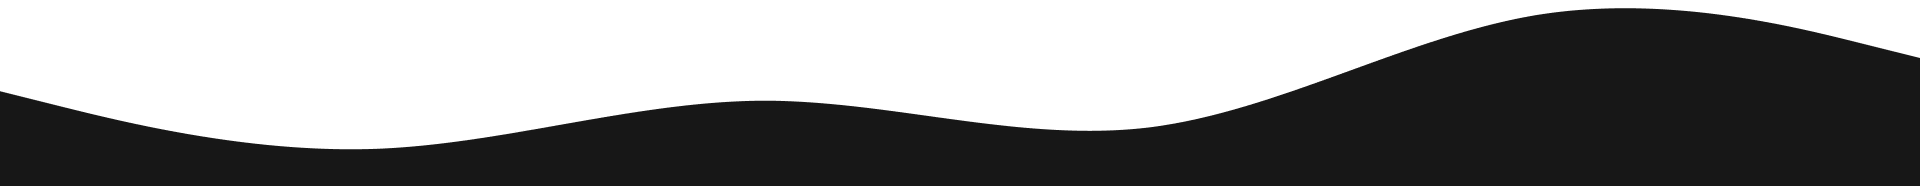
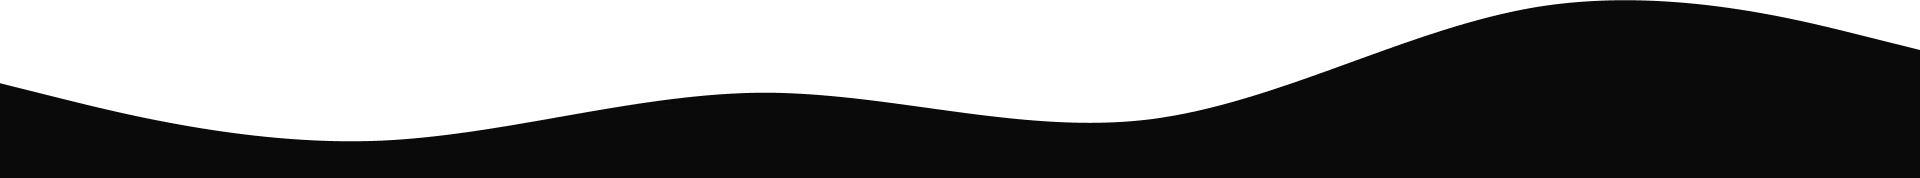
advanced about - little optimization - change coolors.css

diff --git a/src/sections/about/about.jsx b/src/sections/about/about.jsx
@@ -1,11 +1,68 @@
 import Nav from '../../components/navbar/nav'
 import Points from '../../components/points/points'
 import './about.scss'
+import Card from './components/card/card'
 
 const About = props => {
     return (
-      <section className="sections bg-color-3" id='About'>
-        {/* <Points href={props.index} step={2} lightMode={true}/> */}
+      <section className="sections" id='About'>
+        <h1>About me</h1>
+        <div className='cardList'>
+          <Card number={3} plus={true} text="Years Experience"/>
+          <Card number={5} plus={true} text="Happy Clients"/>
+          <Card number={10} plus={true} text="Projects"/>
+          <Card number={72} text="Number of times I've forgotten a semicolon"/>
+        </div>
+        <div className="infoContainer">
+          {/* <ul>
+            <li><span>Full Name:</span> Jorge Peñaranda</li>
+            <li><span>Age:</span> 17</li>
+            <li><span>Birthday:</span> May 31, 2005</li>
+            <li><span>Nationality:</span> Argentine</li>
+            <li><span>Languages:</span> Spanish, English</li>
+            <li><span>Education:</span> Currently in high school tech program for computer science.</li>
+            <li><span>Email:</span> contact@jorgepeniaranda.com</li>
+          </ul> */}
+          <tbody>
+            <tr>
+              <td>Full Name</td>
+              <td>:</td>
+              <td>Jorge Peñaranda</td>
+            </tr>
+            <tr>
+              <td>Age</td>
+              <td>:</td>
+              <td>17</td>
+            </tr>
+            <tr>
+              <td>Birthday</td>
+              <td>:</td>
+              <td>May 31, 2005</td>
+            </tr>
+            <tr>
+              <td>Nationality</td>
+              <td>:</td>
+              <td>Argentine</td>
+            </tr>
+            <tr>
+              <td>Languages</td>
+              <td>:</td>
+              <td>Spanish, English</td>
+            </tr>
+            <tr>
+              <td>Education</td>
+              <td>:</td>
+              <td>Currently in high school tech program for computer science.</td>
+            </tr>
+            <tr>
+              <td>Email</td>
+              <td>:</td>
+              <td>contacto@jorgepeniaranda.com</td>
+            </tr>
+          </tbody>
+          <a href="https://linktr.ee/jorgepeniaranda" target='_blank' rel="noreferrer">More about me</a>
+        </div>
+        <Points href={props.index} step={2} lightMode={true}/>
       </section>
     );
   }

diff --git a/src/sections/about/about.scss b/src/sections/about/about.scss
@@ -1,3 +1,69 @@
 section#About{
     background-color: var(--black);
+    display: grid;
+    grid-template-columns: 45% 45% 10%;
+    grid-template-rows: 20% 80%;
+    place-items: center;
+    h1{
+        width: 100%;
+        height: 100%;
+        display: flex;
+        justify-content: center;
+        align-items: end;
+        user-select: none;
+        grid-column-start: 1;
+        grid-column-end: 4;
+        color: var(--white);
+    }
+    div.cardList{
+        width: 100%;
+        height: 100%;
+        display: grid;
+        place-items: center;
+        grid-template-columns: 50% 30%;
+        padding: 2%;
+        margin-left: 20%;
+        grid-template-rows: 50% 50%;
+    }
+    div.infoContainer{
+        width: 90%;
+        height: 100%;
+        display: flex;
+        flex-direction: column;
+        align-items: center;
+        justify-content: center;
+        color: var(--white);
+        font-family: regularText;
+        font-size: 1.2rem;
+        line-height: 2rem;
+        gap: 3rem;
+        tbody{
+            width: 90%;
+            tr{
+                td{
+                    color: var(--white);
+                }
+                td:first-child{
+                    color: var(--categoryColor);
+                    user-select: none;
+                }
+                td:nth-child(2){
+                    color: var(--primary);
+                    display: flex;
+                    margin: 0 3rem;
+                    user-select: none;
+                }
+            }
+        }
+        a{
+            color: var(--white);
+            text-decoration: none;
+            font-size: 1.4rem;
+            background-color: var(--primary);
+            padding: .5rem 1.7rem;
+            border-radius: 2rem;
+            margin-top: .5rem;
+            user-select: none;
+        }
+    }
 }

diff --git a/src/sections/about/components/card/card.scss b/src/sections/about/components/card/card.scss
@@ -1,0 +1,28 @@
+div.cardContainer{
+    display: flex;
+    flex-direction: column;
+    align-items: center;
+    justify-content: center;
+    text-align: center;
+    width: 12rem;
+    height: 12rem;
+    background-color: var(--cardsColor);
+    box-shadow: 0 0 1rem hsla(0, 0%, 0%, 0.955);
+    user-select: none;
+    span{
+        height: 70%;
+        width: 100%;
+        display: flex;
+        align-items: center;
+        justify-content: center;
+        font-size: 3rem;
+        font-family: boldText;
+        color: var(--white);
+    }
+    p{
+        height: 30%;
+        width: 100%;
+        color: var(--primary);
+        font-family: regularText;
+    }
+}

diff --git a/src/sections/me/me.jsx b/src/sections/me/me.jsx
@@ -10,7 +10,7 @@ import Github from './assets/Github.png'
 
 const Me = props => {
     return (
-      <section className="sections bg-color-1" id='Me'>
+      <section className="sections" id='Me'>
         <Nav href={props.index}/>
         <div className='container'>
           <div id='presentation'>

diff --git a/src/sections/about/components/card/card.jsx b/src/sections/about/components/card/card.jsx
@@ -1,0 +1,12 @@
+import './card.scss'
+
+const Card = props => {
+    return (
+      <div className="cardContainer">
+        <span>{props.number}{(props.plus) ? "+" : null}</span>
+        <p>{props.text}</p>
+      </div>
+    );
+  }
+  
+  export default Card;

diff --git a/src/generalStyles/colors.css b/src/generalStyles/colors.css
@@ -1,8 +1,8 @@
 :root{
-    --black: #171717;
+    --black: #0a0a0a;
     --white: #D4D4D8;
     --primary: #CA8A04;
-    --cardsColor: #262626;
+    --cardsColor: #171717;
     --categoryColor: #737373;
 /* 
     --font-color-light: #FFFFFF;

diff --git a/src/components/points/points.scss b/src/components/points/points.scss
@@ -5,6 +5,7 @@ div#points{
   flex-direction: column;
   align-items: center;
   justify-content: center;
+  user-select: none;
   .point{
     border-radius: 50%;
     border: var(--black) solid .2vmin;

diff --git a/src/generalStyles/fonts.css b/src/generalStyles/fonts.css
@@ -18,3 +18,9 @@
     src: url(../assets/fonts/Ubuntu-Bold.ttf);
     font-display: swap;
  }
+
+ h1{
+   font-size: 3rem;
+   font-family: regularText;
+   text-decoration: underline;
+ }
